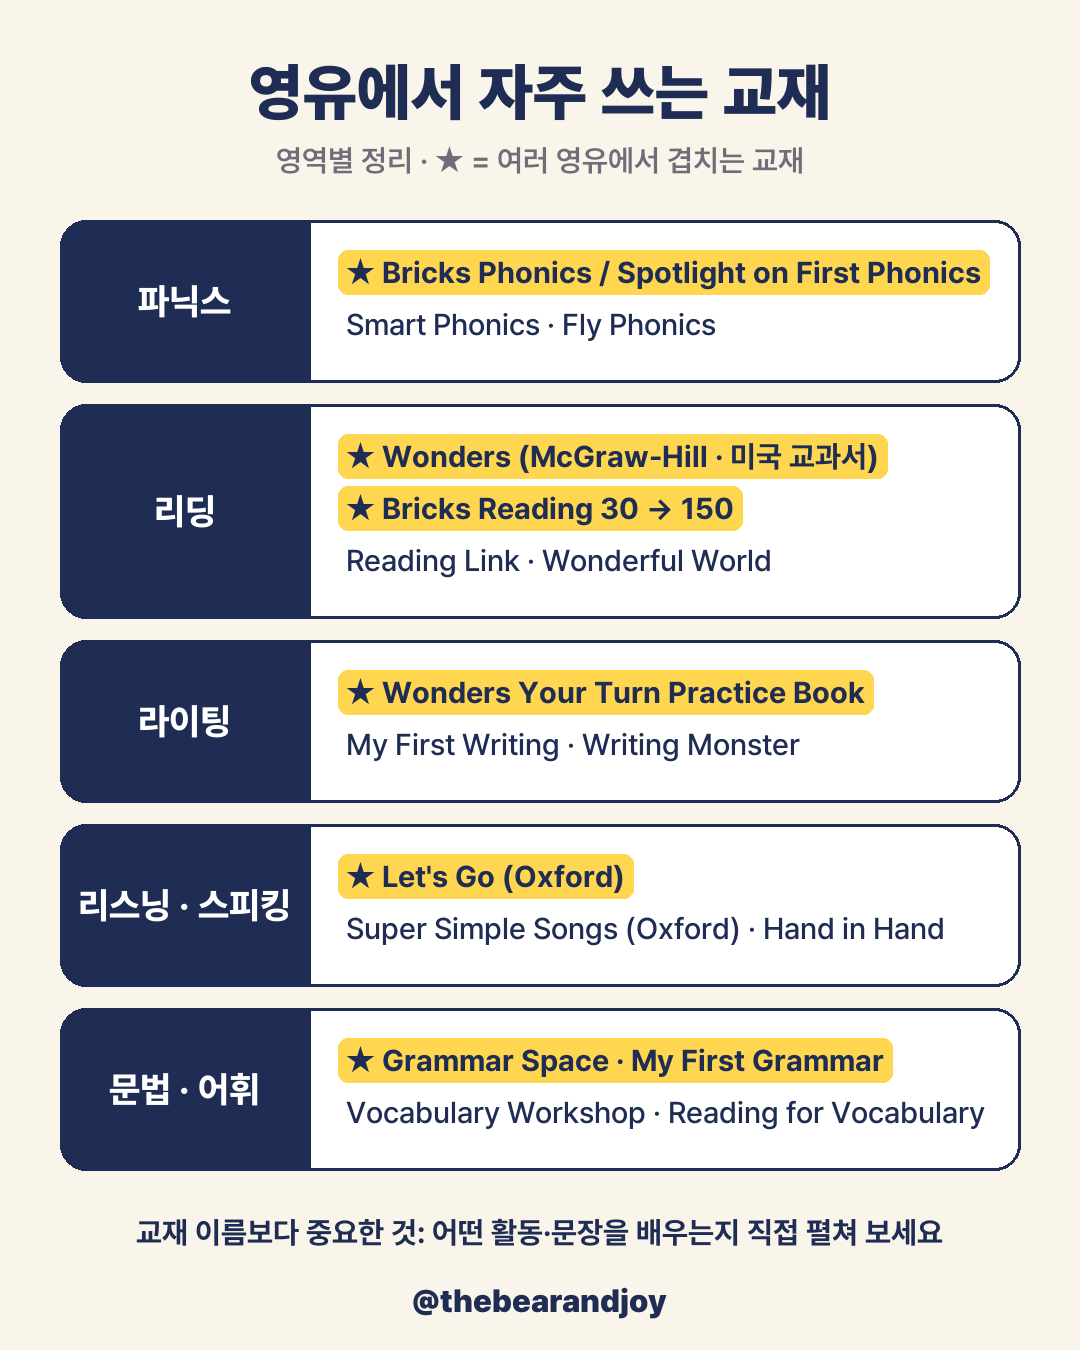
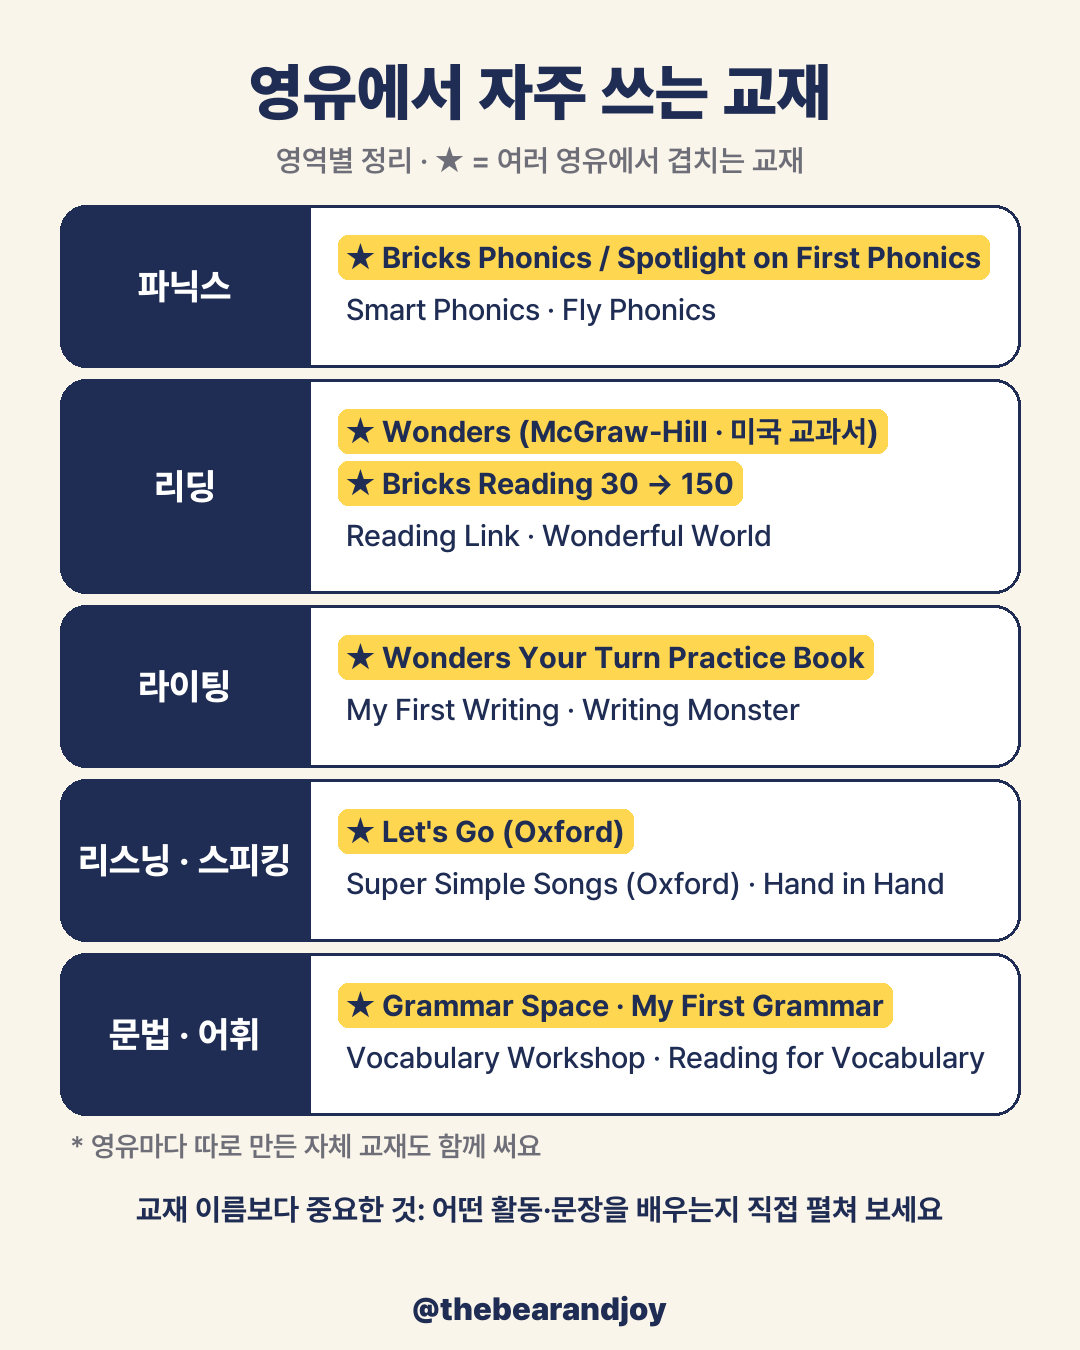
DAY 39 (Joy): no brand names — textbook table gets one line '* 영유마다 따로 만든 자체 교재도 함께 써요'; brand page removed

Changed region(s): [[0.0306, 0.1244, 0.9472, 0.9956], [0.1222, 0.3422, 0.2139, 0.4044]]

diff --git a/projects/2026-11-day38-yeongyu-check2/textbooks/make_table.py b/projects/2026-11-day38-yeongyu-check2/textbooks/make_table.py
@@ -14,7 +14,7 @@ rows = [("파닉스", ["★ Bricks Phonics / Spotlight on First Phonics", "Smart
         ("라이팅", ["★ Wonders Your Turn Practice Book", "My First Writing · Writing Monster"]),
         ("리스닝 · 스피킹", ["★ Let's Go (Oxford)", "Super Simple Songs (Oxford) · Hand in Hand"]),
         ("문법 · 어휘", ["★ Grammar Space · My First Grammar", "Vocabulary Workshop · Reading for Vocabulary"])]
-y, L, R = 220, 60, W - 60
+y, L, R = 205, 60, W - 60
 for name, items in rows:
     h = 58 + 52 * len(items)
     d.rounded_rectangle((L, y, R, y + h), 26, fill="white", outline=NAVY, width=3)
@@ -25,33 +25,9 @@ for name, items in rows:
         star = t.startswith("★")
         if star: d.rounded_rectangle((L + 278, y + 30 + 52 * i, L + 278 + d.textlength(t, font=f("Bold", 30)) + 16, y + 74 + 52 * i), 10, fill=YEL)
         d.text((L + 286, y + 52 + 52 * i), t, font=f("Bold" if star else "Medium", 30), fill=NAVY, anchor="lm")
-    y += h + 22
-d.text((W // 2, y + 40), "교재 이름보다 중요한 것: 어떤 활동·문장을 배우는지 직접 펼쳐 보세요 📖".replace(" 📖", ""), font=f("Bold", 30), fill=NAVY, anchor="mm")
-d.text((W // 2, Hh - 50), "@thebearandjoy", font=f("Black", 32), fill=NAVY, anchor="mm")
+    y += h + 12
+d.text((L + 10, y + 6), "* 영유마다 따로 만든 자체 교재도 함께 써요", font=f("SemiBold", 28), fill=GREY, anchor="lt")  # Joy (23 Nov): one line, no brand names
+d.text((W // 2, y + 82), "교재 이름보다 중요한 것: 어떤 활동·문장을 배우는지 직접 펼쳐 보세요", font=f("Bold", 30), fill=NAVY, anchor="mm")
+d.text((W // 2, Hh - 42), "@thebearandjoy", font=f("Black", 32), fill=NAVY, anchor="mm")
 im.save(f"{H}/textbook-table.png"); print(y)
 
-# page 2 (Joy's photos, 23 Nov): each 영유's own books
-im = Image.new("RGB", (W, Hh), CREAM); d = ImageDraw.Draw(im)
-d.text((W // 2, 92), "영유마다 다른 자체 교재", font=f("Black", 62), fill=NAVY, anchor="mm")
-d.text((W // 2, 160), "같은 영역도 교재 이름은 제각각이에요", font=f("SemiBold", 30), fill=GREY, anchor="mm")
-brands = [("알티오라", ["리딩 · HABITUS (Level 1 → 4)", "스피킹 · Speaking Acquisition", "리스닝 · Listening Acquisition", "어휘 · Vocabulary & Speaking"]),
-          ("라이즈", ["수업 · Circle Time (주제별)", "리딩 · RISE 리더스 북", "노래 · Super Simple Songs (Oxford)"]),
-          ("폴리", ["리딩 · Wonders (미국 교과서)", "독서 · AR 레벨 독서", "+ 자체 교재"])]
-y = 220
-for name, items in brands:
-    h = 58 + 52 * len(items)
-    d.rounded_rectangle((L, y, R, y + h), 26, fill="white", outline=NAVY, width=3)
-    d.rounded_rectangle((L, y, L + 250, y + h), 26, fill=NAVY); d.rectangle((L + 220, y, L + 250, y + h), fill=NAVY)
-    d.text((L + 125, y + h // 2), name, font=f("ExtraBold", 38), fill="white", anchor="mm")
-    for i, t in enumerate(items):
-        k, v = t.split(" · ", 1) if " · " in t else ("", t)
-        x = L + 286
-        if k:
-            d.text((x, y + 52 + 52 * i), k, font=f("Bold", 30), fill=GREY, anchor="lm"); x += 110
-        d.text((x, y + 52 + 52 * i), v, font=f("Bold", 30), fill=NAVY, anchor="lm")
-    y += h + 22
-d.rounded_rectangle((L, y + 20, R, y + 170), 26, fill=YEL)
-d.text((W // 2, y + 70), "교재 이름보다 중요한 것", font=f("Black", 38), fill=NAVY, anchor="mm")
-d.text((W // 2, y + 125), "어떤 활동·문장을 배우는지 직접 펼쳐 보세요", font=f("Bold", 32), fill=NAVY, anchor="mm")
-d.text((W // 2, Hh - 50), "@thebearandjoy", font=f("Black", 32), fill=NAVY, anchor="mm")
-im.save(f"{H}/textbook-brands.png"); print("page2", y)

diff --git a/projects/2026-11-day38-yeongyu-check2/textbooks/RESEARCH.md b/projects/2026-11-day38-yeongyu-check2/textbooks/RESEARCH.md
@@ -15,4 +15,4 @@ Joy의 두 사진(영유 교재표, 책장)에 함께 나오는 교재: Wonders,
 - 알티오라 (5세 1년차 / 6세 1년차 진열): HABITUS Level 1–4 (Harvest·Accelerate·Build·Inspire·Thrive·Utilize·Strive), Speaking Acquisition, Listening Acquisition, Vocabulary & Speaking (Multi-Sensory Integrated), 스토리북(Let's Dance, Guess How I Feel 등)
 - 라이즈: Circle Time 3 (My Favorite Things), RISE 리더스(Sammy's New Shape), Super Simple Songs Fun Book (Oxford), Oxford 스파이럴 스토리북, Little Instrument Explorers, 수 교구
 - 공통점: 영역별(리딩/스피킹/리스닝)로 자체 교재를 나누고, Oxford 같은 해외 출판사 교재를 함께 씀
-→ textbook-brands.png (2페이지)
+→ Joy (23 Nov): 브랜드 이름은 말하지 않기. 표에 "* 영유마다 따로 만든 자체 교재도 함께 써요" 한 줄만 (2페이지 삭제)
